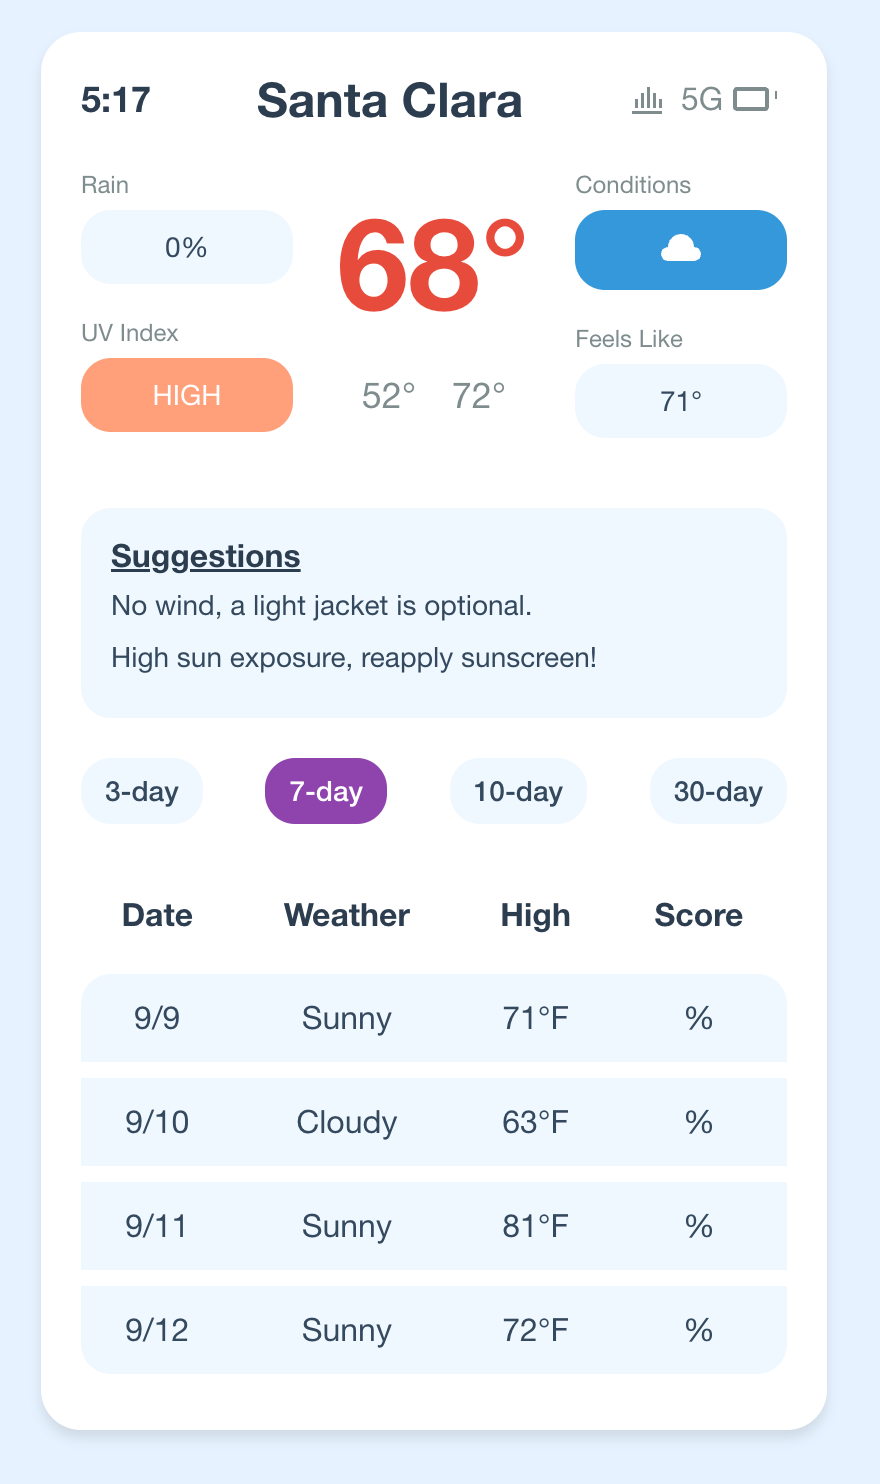
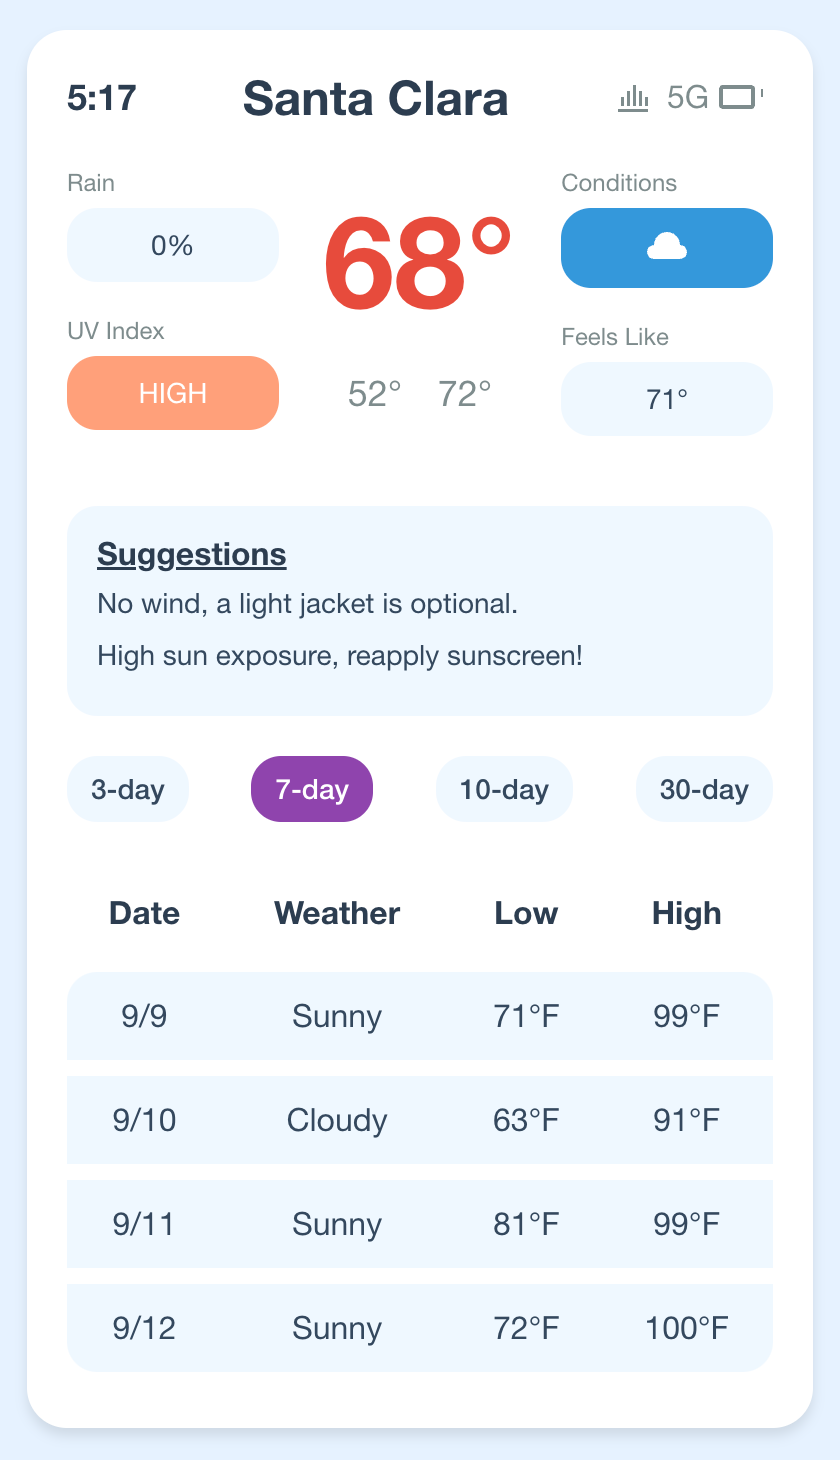
bugfix

diff --git a/src/components/Forecast.jsx b/src/components/Forecast.jsx
@@ -31,8 +31,8 @@ const Forecast = () => {
           <tr>
             <th>Date</th>
             <th>Weather</th>
+            <th>Low</th>
             <th>High</th>
-            <th>Score</th>
           </tr>
         </thead>
         <tbody>
@@ -41,7 +41,7 @@ const Forecast = () => {
               <td>{day.date}</td>
               <td>{day.icon}</td>
               <td>{day.low}°F</td>
-              <td>{day.score}%</td>
+              <td>{day.high}°F</td>
             </tr>
           ))}
         </tbody>

diff --git a/README.md b/README.md
@@ -8,11 +8,12 @@ Creating a frontend only weather app using Vite + React.
 2. Run `npm install`
 3. Run `npm run dev`
 
-
 ## React + Vite Mockup
+
 HTML/CSS webapp using React + Vite
 ![mockup](./public/mockup.png)
 
 ## Initial Concept
+
 "High-fidelity Prototype"
 ![proto](./public/proto.png)
